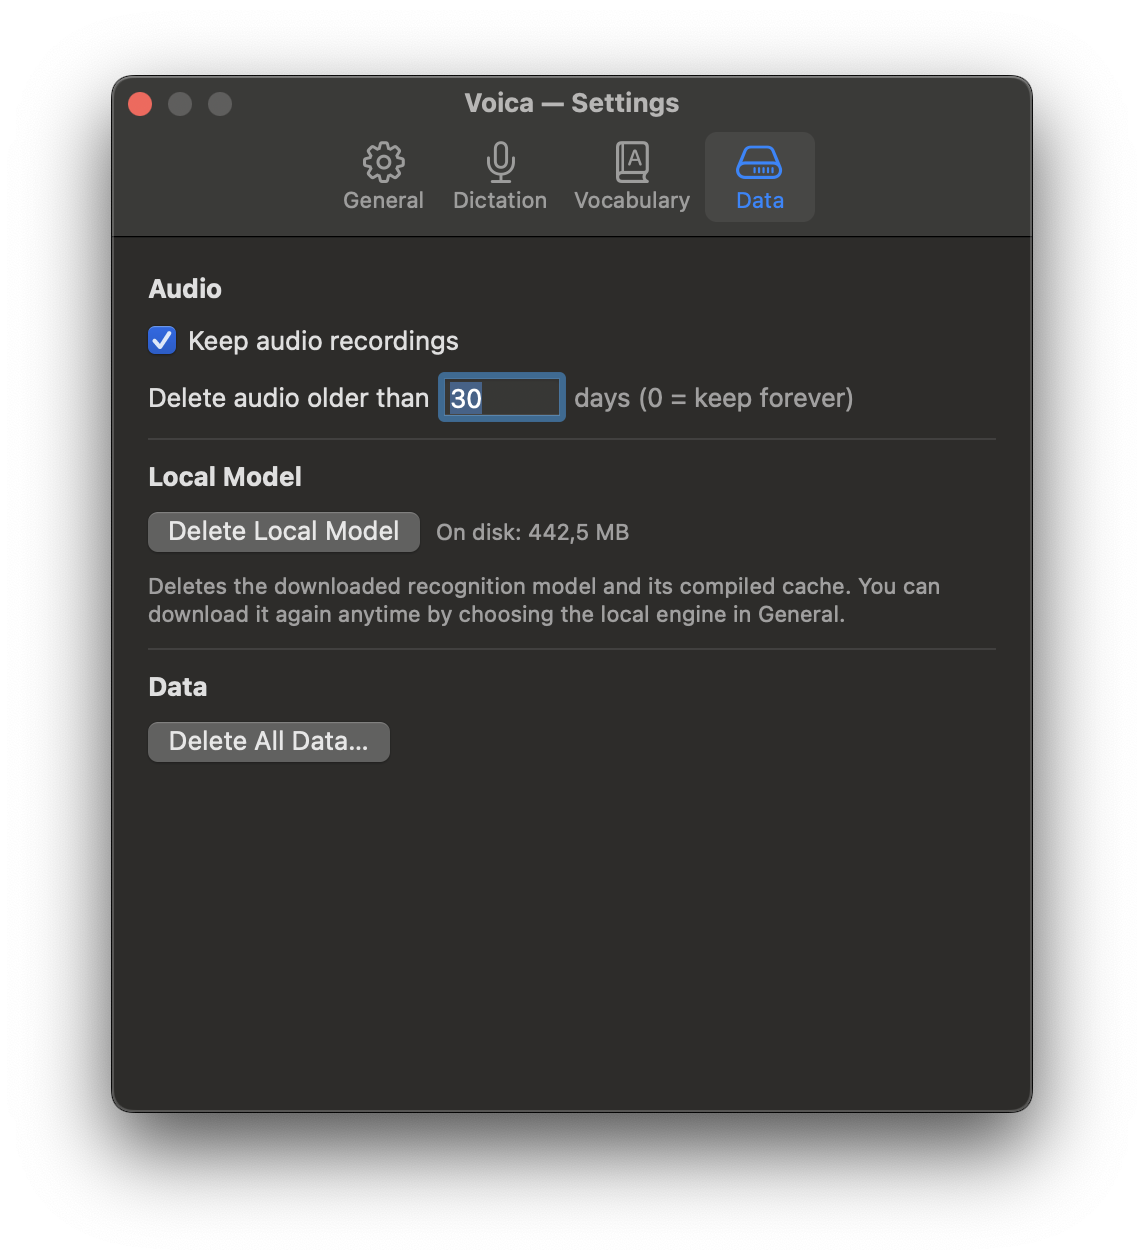
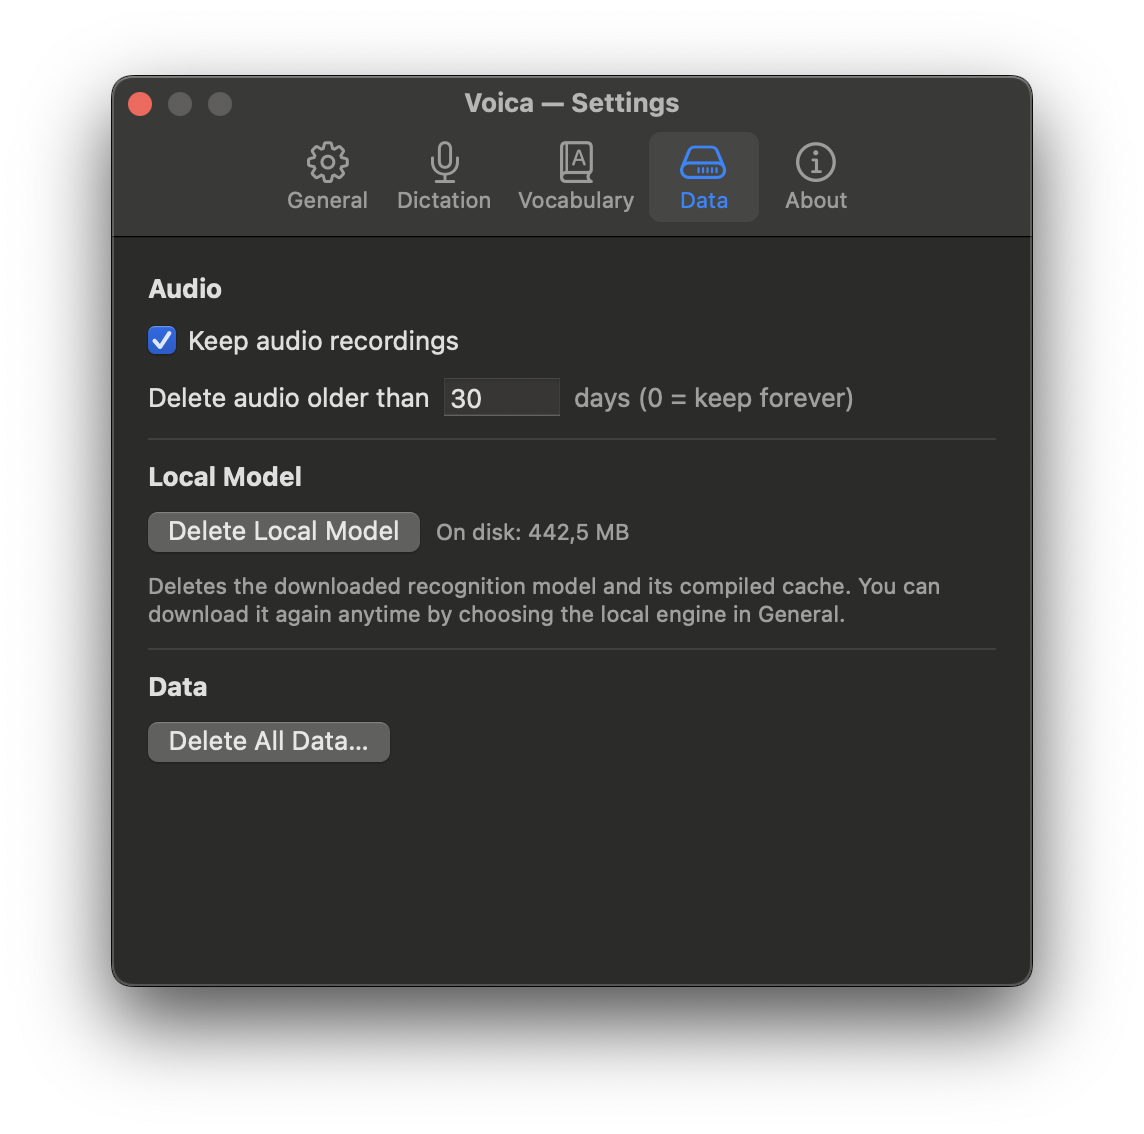
docs: свежие скриншоты всех 5 вкладок настроек (0.9.9)
Пересняты General/Dictation/Vocabulary/Data под 0.9.x (General без тумблера
обновлений, Dictation с секцией Cloud Recognition, Vocabulary с попапом модели ИИ).
about.png переименован в settings-about.png для единообразия; ссылки в README (en/ru)
обновлены.

Changed region(s): [[0.1224, 0.216, 0.826, 0.679], [0.0918, 0.0617, 0.9178, 0.216], [0.0918, 0.8642, 0.9178, 0.8951]]

diff --git a/README.ru.md b/README.ru.md
@@ -65,7 +65,7 @@
   <img src="docs/settings-dictation.png" width="440" alt="Настройки — Диктовка">
   <img src="docs/settings-vocabulary.png" width="440" alt="Настройки — Словарь">
   <img src="docs/settings-data.png" width="440" alt="Настройки — Данные">
-  <img src="docs/about.png" width="440" alt="Настройки — О программе">
+  <img src="docs/settings-about.png" width="440" alt="Настройки — О программе">
 </p>
 
 ## Установка

diff --git a/README.md b/README.md
@@ -64,7 +64,7 @@ excellent for Russian), no internet or API key required.
   <img src="docs/settings-dictation.png" width="440" alt="Settings — Dictation">
   <img src="docs/settings-vocabulary.png" width="440" alt="Settings — Vocabulary">
   <img src="docs/settings-data.png" width="440" alt="Settings — Data">
-  <img src="docs/about.png" width="440" alt="Settings — About">
+  <img src="docs/settings-about.png" width="440" alt="Settings — About">
 </p>
 
 ## Install
